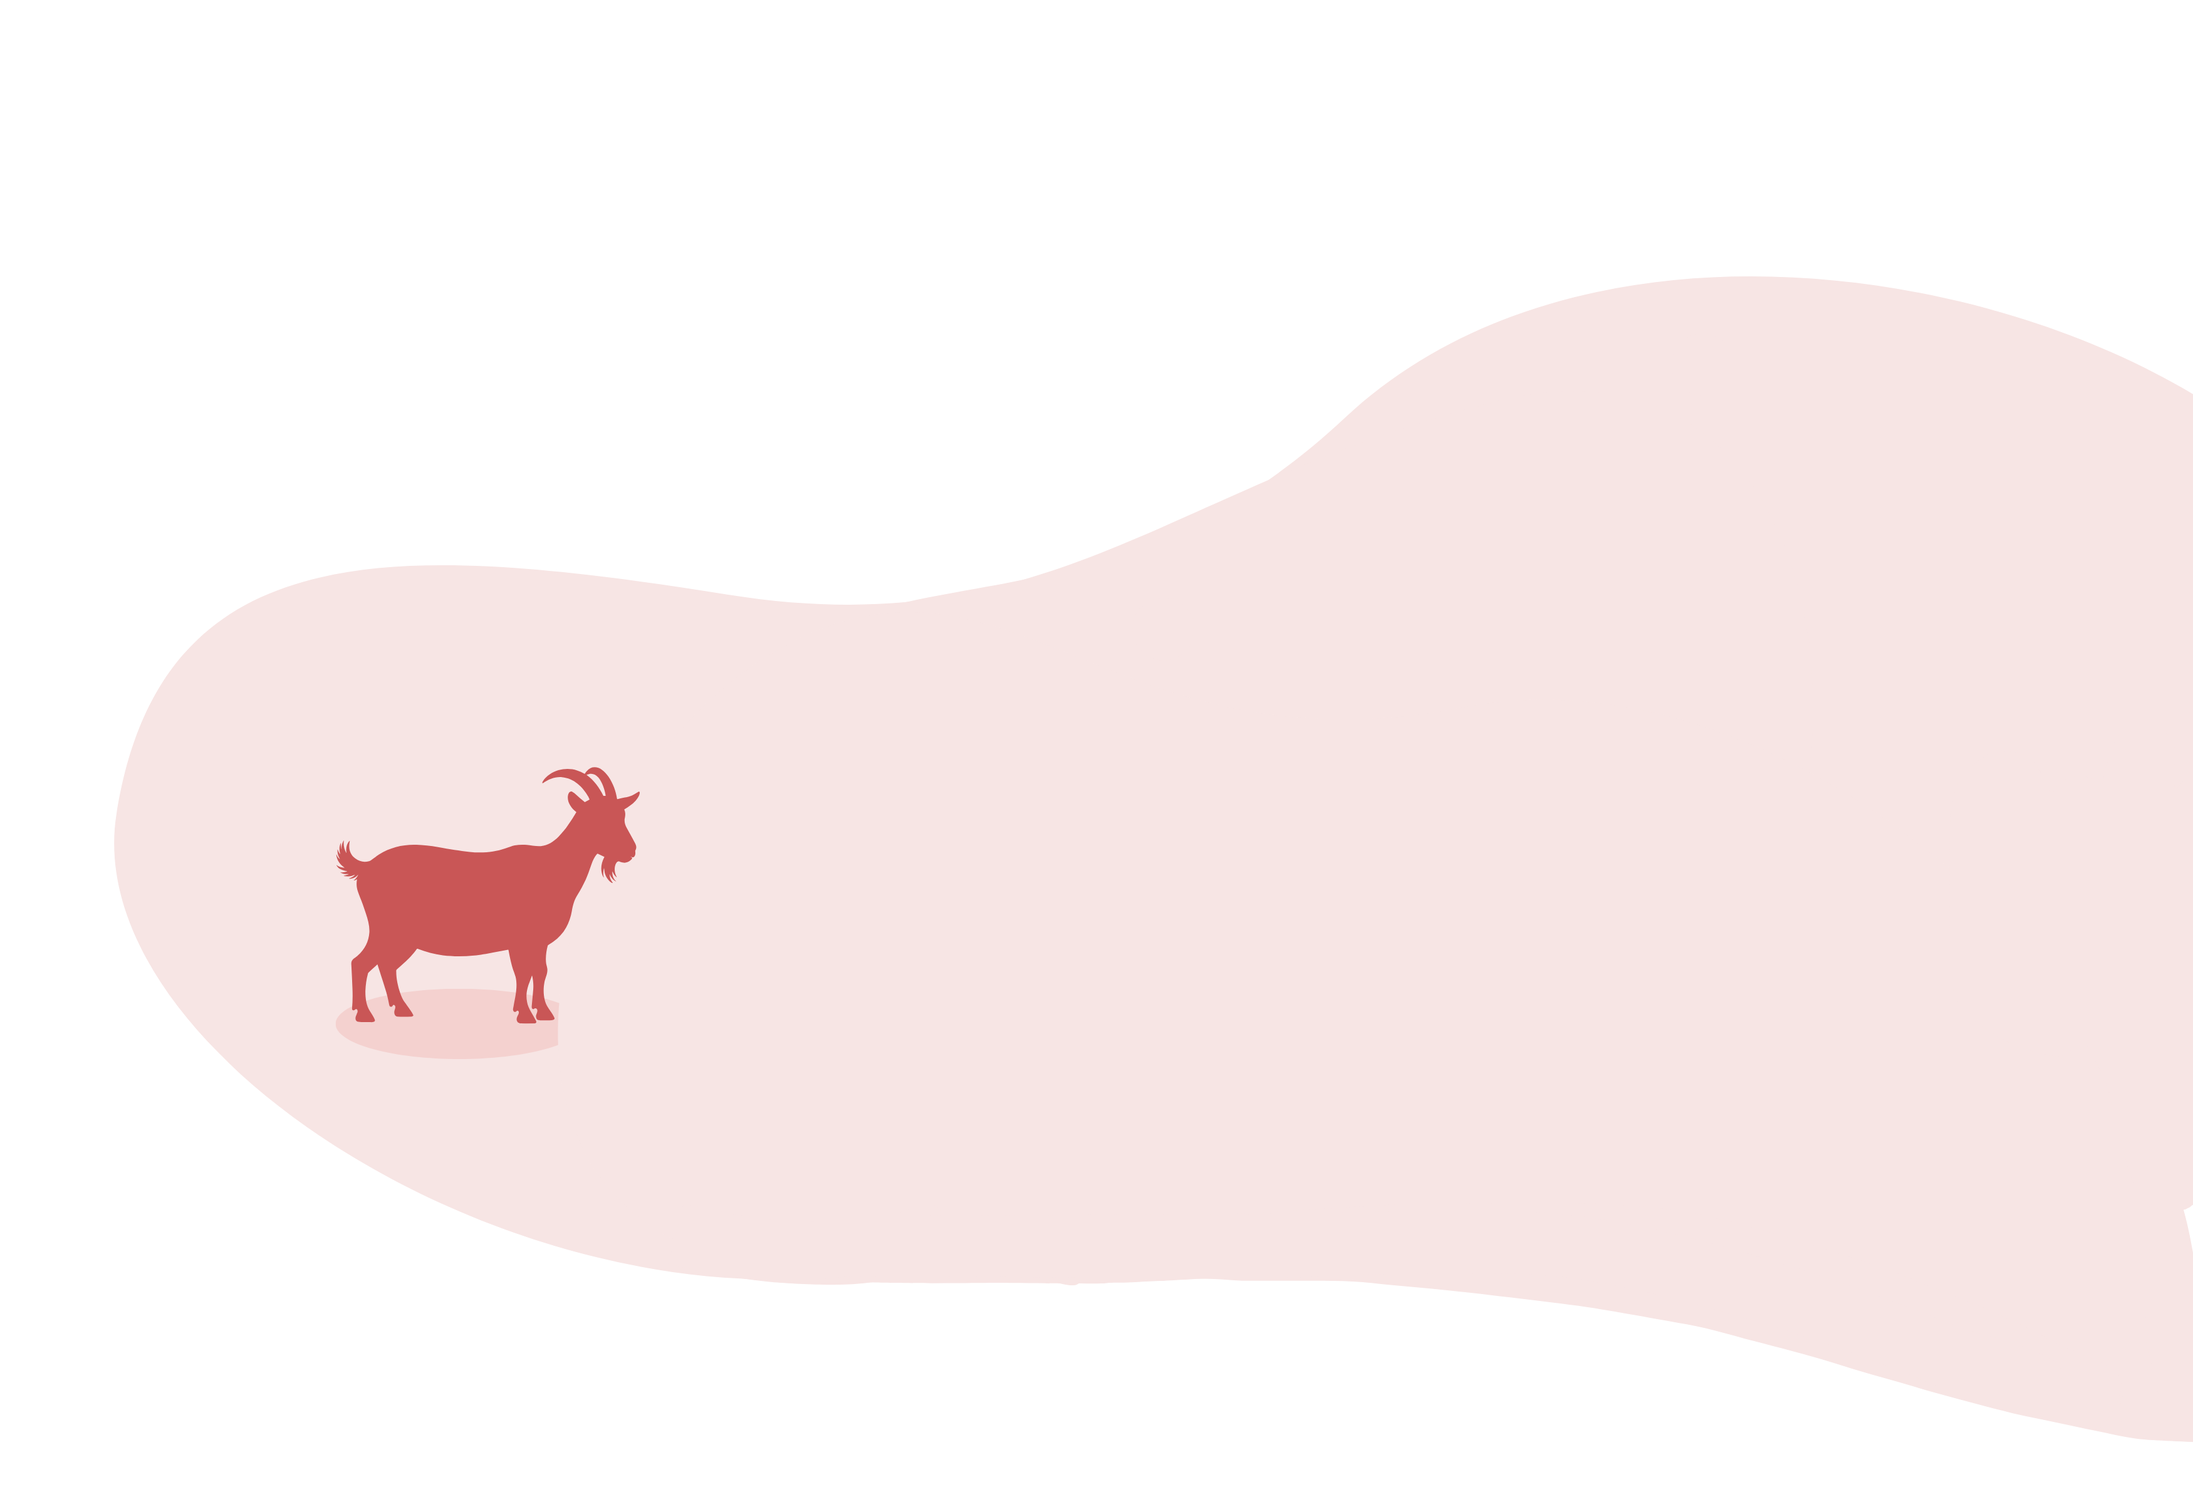
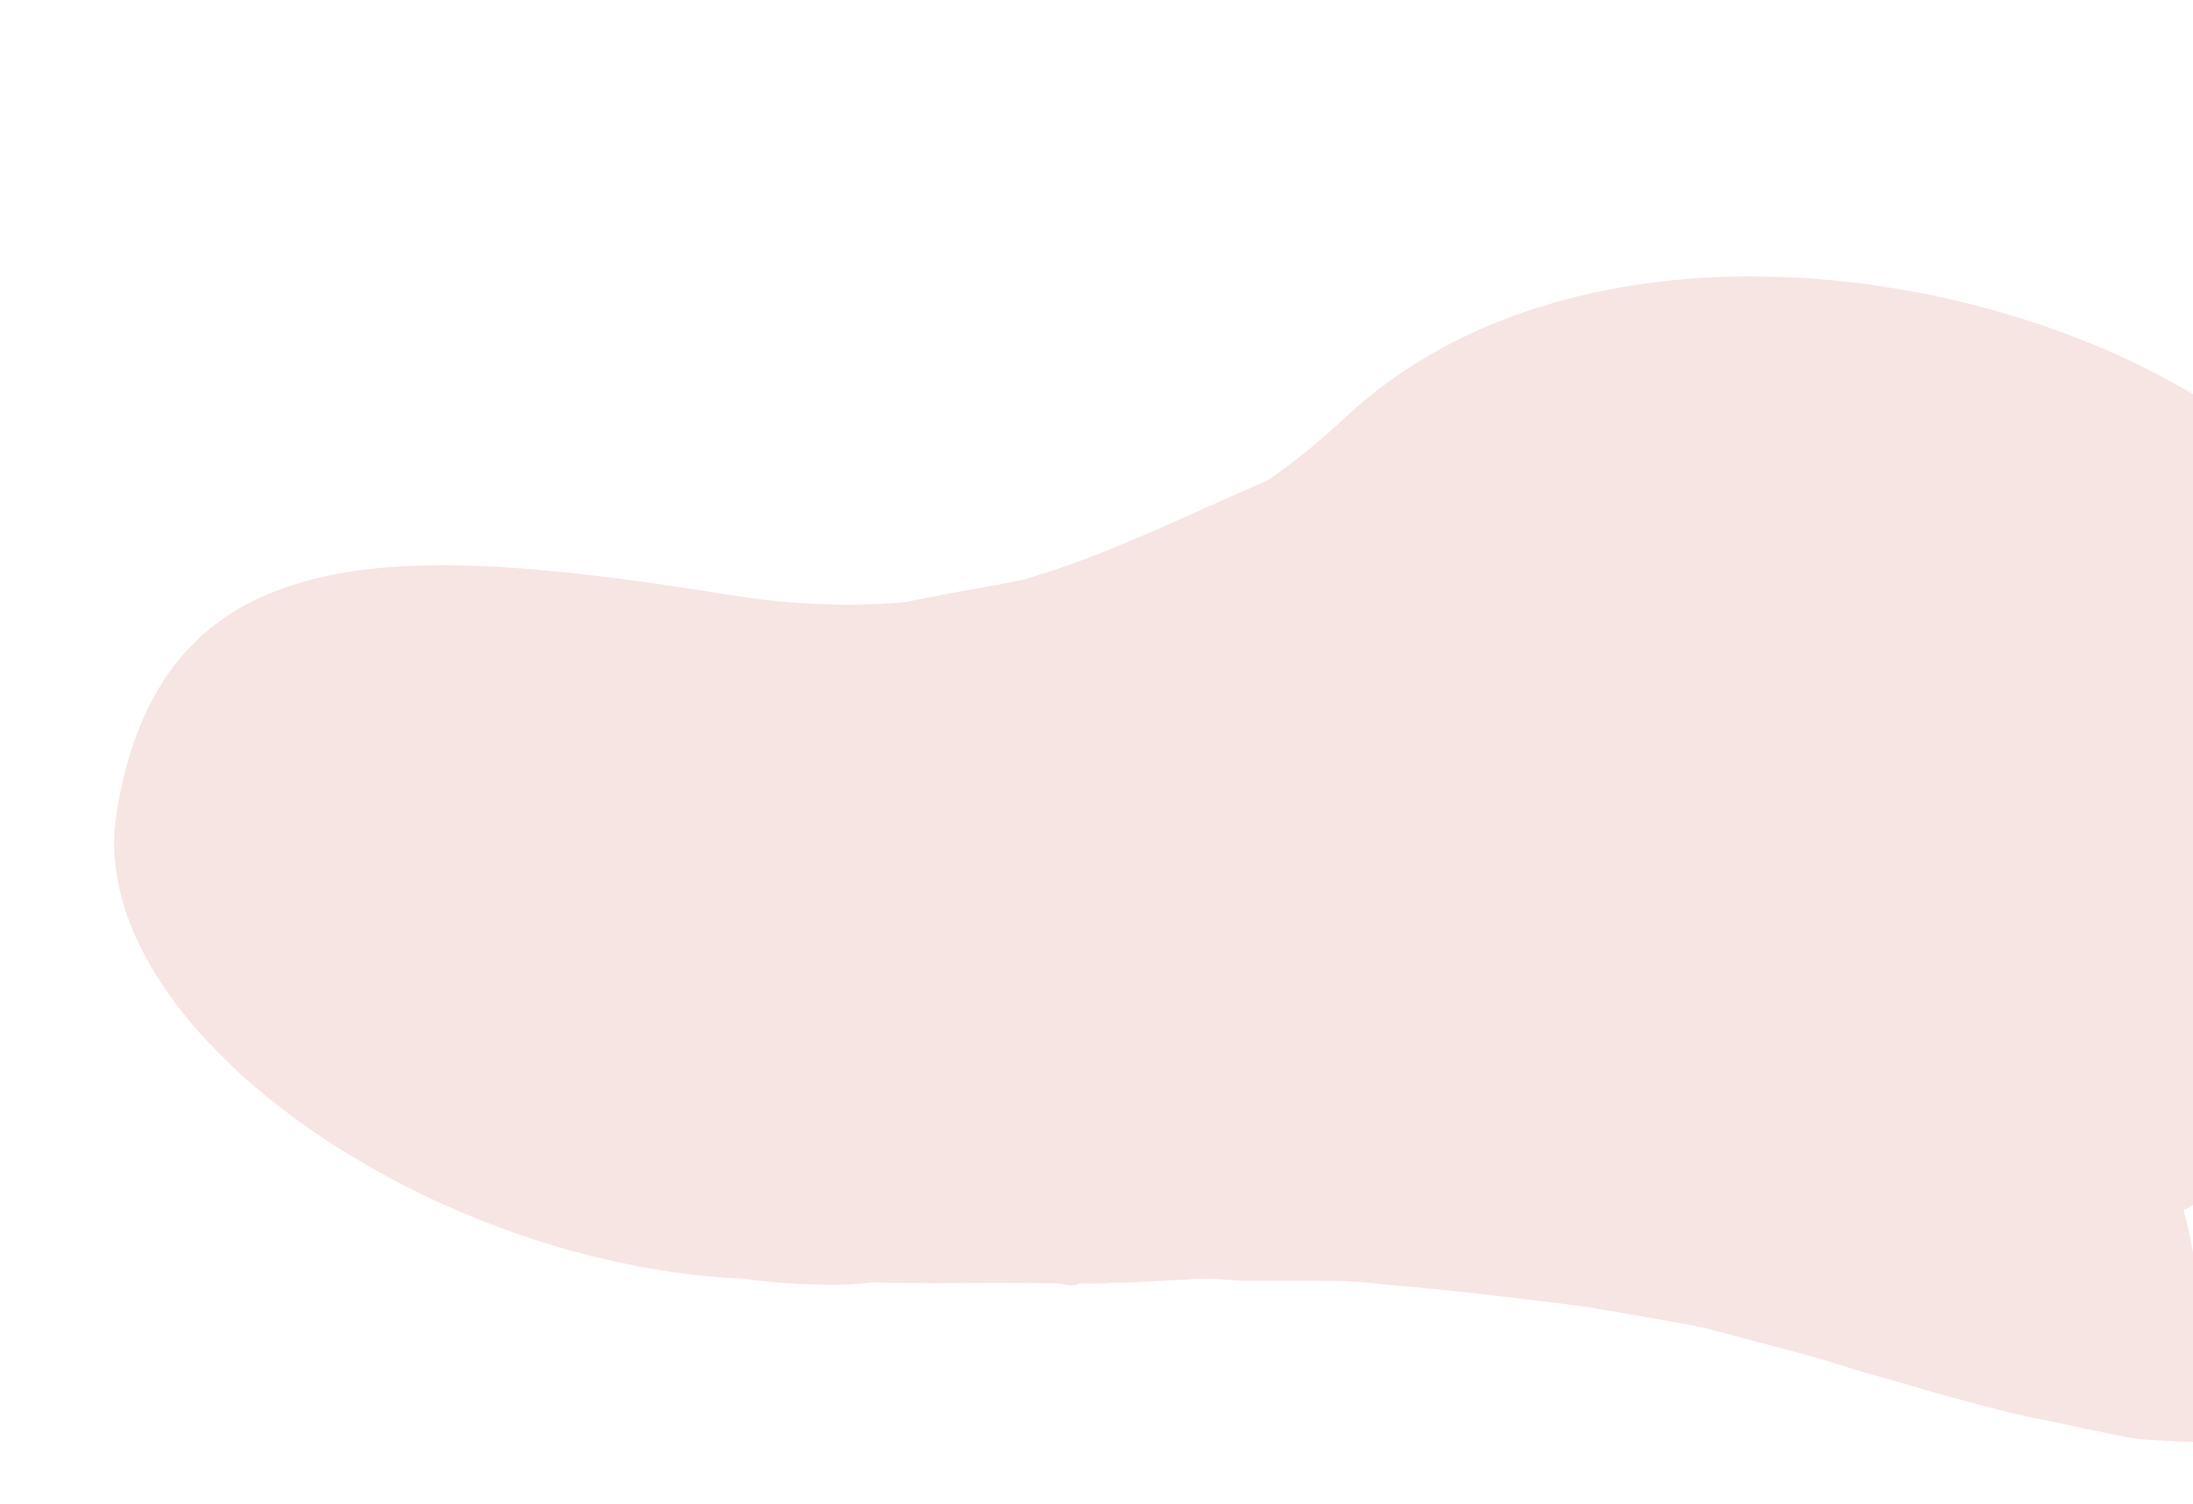
Left-justify both intros to the nav, mirror the goat, redraw the arrows
The goat was painted into landing-page.png, so it could not be moved or
mirrored. Erased it from the blob (the area it sat on is one flat colour,
so a fill is seamless) and re-added it as .hero-animal-goat, flipped with
scaleX(-1) and shifted left - it can now be repositioned freely like the
rabbit. Hero phones rise from 12% to 4%.

Both intro sections flip from right- to left-justified and now run full
width with a padding-left of the new --nav-inset, so the headings, the
flow and the benefit tiles all start on the nav bar's left edge (224px at
1440). The horse moves to the right of the "Why LivestockBook?" text.

The two icon families share a --tile-size of 250px: the flow icons grow
into it, and the benefit tiles get it via columns narrower than the
artwork, so the tiles overlap their transparent margins instead of
shrinking.

All four yellow arrows are redrawn as curved shafts with angled heads
computed off each curve's end tangent; arrow 2 gets its own dipping curve
rather than being arrow 1 mirrored.

The side graphic was not cropped but painted over: at z-index -1 it fell
behind .hero-band, whose white background covered its top. .how-why-wrap
now makes a stacking context to contain it, and it moves down/smaller to
clear the newly left-aligned icons.

Llama 350 -> 400px; reports mockups scaled 1.1 via a wider left bleed.

The App Store link asked for is already on both store badges (hero and
footer) and unchanged.

Changed region(s): [[0.1557, 0.5, 0.3114, 0.6875]]

diff --git a/docs/index.html b/docs/index.html
@@ -13,7 +13,7 @@
   <link rel="icon" type="image/png" sizes="96x96" href="./favicon-96x96.png?v=20260724" />
   <link rel="icon" type="image/png" sizes="192x192" href="./favicon-192x192.png?v=20260724" />
   <link rel="apple-touch-icon" sizes="180x180" href="./apple-touch-icon.png?v=20260724" />
-  <link rel="stylesheet" href="./styles.css?v=20260820d" />
+  <link rel="stylesheet" href="./styles.css?v=20260821a" />
 </head>
 <body>
   <header class="site-header">
@@ -47,8 +47,9 @@
       </div>
 
       <figure class="hero-usp">
-        <img src="./images/landing-page.png?v=4" alt="" aria-hidden="true" loading="eager" />
+        <img src="./images/landing-page.png?v=5" alt="" aria-hidden="true" loading="eager" />
         <img class="hero-phone" src="./images/landing-phone.png?v=4" alt="Animals screen in LivestockBook" loading="eager" />
+        <img class="hero-animal hero-animal-goat" src="./images/goat.png" alt="" aria-hidden="true" loading="lazy" />
         <img class="hero-animal hero-animal-rabbit" src="./images/rabbit.png" alt="" aria-hidden="true" loading="lazy" />
       </figure>
     </section>
@@ -67,17 +68,17 @@
           <img src="./images/how-add-animals.png?v=3" alt="" aria-hidden="true" />
           <span class="flow-label"><span class="flow-num">1.</span>Add animals</span>
         </div>
-        <span class="flow-arrow" aria-hidden="true"><svg viewBox="0 0 48 24"><path d="M3 12h38m0 0l-9-8m9 8l-9 8" fill="none" stroke="#f3a90a" stroke-width="4.5" stroke-linecap="round" stroke-linejoin="round"/></svg></span>
+        <span class="flow-arrow" aria-hidden="true"><svg viewBox="0 0 48 24"><path d="M4 15C16 6 30 5 42 12" fill="none" stroke="#f3a90a" stroke-width="4.5" stroke-linecap="round"/><path d="M42 12l-6-9m6 9l-11 1" fill="none" stroke="#f3a90a" stroke-width="4.5" stroke-linecap="round" stroke-linejoin="round"/></svg></span>
         <div class="flow-step">
           <img src="./images/how-add-records.png?v=3" alt="" aria-hidden="true" />
           <span class="flow-label"><span class="flow-num">2.</span>Log records</span>
         </div>
-        <span class="flow-arrow" aria-hidden="true"><svg viewBox="0 0 48 24"><path d="M3 12h38m0 0l-9-8m9 8l-9 8" fill="none" stroke="#f3a90a" stroke-width="4.5" stroke-linecap="round" stroke-linejoin="round"/></svg></span>
+        <span class="flow-arrow" aria-hidden="true"><svg viewBox="0 0 48 24"><path d="M4 15C16 6 30 5 42 12" fill="none" stroke="#f3a90a" stroke-width="4.5" stroke-linecap="round"/><path d="M42 12l-6-9m6 9l-11 1" fill="none" stroke="#f3a90a" stroke-width="4.5" stroke-linecap="round" stroke-linejoin="round"/></svg></span>
         <div class="flow-step">
           <img src="./images/how-filter-records.png?v=3" alt="" aria-hidden="true" />
           <span class="flow-label"><span class="flow-num">3.</span>Filter records</span>
         </div>
-        <span class="flow-arrow" aria-hidden="true"><svg viewBox="0 0 48 24"><path d="M3 12h38m0 0l-9-8m9 8l-9 8" fill="none" stroke="#f3a90a" stroke-width="4.5" stroke-linecap="round" stroke-linejoin="round"/></svg></span>
+        <span class="flow-arrow" aria-hidden="true"><svg viewBox="0 0 48 24"><path d="M4 15C16 6 30 5 42 12" fill="none" stroke="#f3a90a" stroke-width="4.5" stroke-linecap="round"/><path d="M42 12l-6-9m6 9l-11 1" fill="none" stroke="#f3a90a" stroke-width="4.5" stroke-linecap="round" stroke-linejoin="round"/></svg></span>
         <div class="flow-step">
           <img src="./images/how-export-records.png?v=3" alt="" aria-hidden="true" />
           <span class="flow-label"><span class="flow-num">4.</span>Export files</span>
@@ -126,7 +127,7 @@
         </article>
 
         <article class="feature-story reverse feature-story-graphic">
-          <span class="story-arrow story-arrow-1" aria-hidden="true"><svg viewBox="0 0 200 120"><path d="M14 84 L176 22" fill="none" stroke="#f3a90a" stroke-width="9" stroke-linecap="round"/><path d="M176 22l-28 5m28-5l-13 25" fill="none" stroke="#f3a90a" stroke-width="9" stroke-linecap="round" stroke-linejoin="round"/></svg></span>
+          <span class="story-arrow story-arrow-1" aria-hidden="true"><svg viewBox="0 0 200 120"><path d="M12 22C58 10 112 26 152 62" fill="none" stroke="#f3a90a" stroke-width="9" stroke-linecap="round"/><path d="M152 62l-10-30m10 30l-31-7" fill="none" stroke="#f3a90a" stroke-width="9" stroke-linecap="round" stroke-linejoin="round"/></svg></span>
           <div class="feature-story-copy">
             <p class="eyebrow">Records</p>
             <h2>Keep track of<br />livestock activity.</h2>
@@ -139,7 +140,7 @@
         </article>
 
         <article class="feature-story feature-story-graphic">
-          <span class="story-arrow story-arrow-2" aria-hidden="true"><svg viewBox="0 0 200 120"><path d="M14 24 Q100 92 186 46" fill="none" stroke="#f3a90a" stroke-width="9" stroke-linecap="round"/><path d="M186 46l-28-4m28 4l-9-26" fill="none" stroke="#f3a90a" stroke-width="9" stroke-linecap="round" stroke-linejoin="round"/></svg></span>
+          <span class="story-arrow story-arrow-2" aria-hidden="true"><svg viewBox="0 0 200 120"><path d="M14 30C70 96 130 96 184 44" fill="none" stroke="#f3a90a" stroke-width="9" stroke-linecap="round"/><path d="M184 44l-31 8m31-8l-9 31" fill="none" stroke="#f3a90a" stroke-width="9" stroke-linecap="round" stroke-linejoin="round"/></svg></span>
           <figure class="feature-shot feature-story-screen">
             <img class="feature-screen-image" src="./images/graphic-export.png?v=2" alt="Export screens in LivestockBook" loading="lazy" />
             <img class="story-accent" src="./images/duck.png" alt="" aria-hidden="true" loading="lazy" />
@@ -152,7 +153,7 @@
         </article>
 
         <article class="feature-story reverse feature-story-graphic">
-          <span class="story-arrow story-arrow-3" aria-hidden="true"><svg viewBox="0 0 200 120"><path d="M14 84 L176 22" fill="none" stroke="#f3a90a" stroke-width="9" stroke-linecap="round"/><path d="M176 22l-28 5m28-5l-13 25" fill="none" stroke="#f3a90a" stroke-width="9" stroke-linecap="round" stroke-linejoin="round"/></svg></span>
+          <span class="story-arrow story-arrow-3" aria-hidden="true"><svg viewBox="0 0 200 120"><path d="M12 84C62 92 118 70 176 26" fill="none" stroke="#f3a90a" stroke-width="9" stroke-linecap="round"/><path d="M176 26l-32 4m32-4l-13 29" fill="none" stroke="#f3a90a" stroke-width="9" stroke-linecap="round" stroke-linejoin="round"/></svg></span>
           <div class="feature-story-copy">
             <p class="eyebrow">Ready to Share</p>
             <h2>Clean, branded<br />and audit-ready.</h2>

diff --git a/docs/styles.css b/docs/styles.css
@@ -15,6 +15,12 @@
   --shadow: 0 20px 50px rgba(31, 27, 23, 0.08);
   --hero-frame-width: 1040px;
   --content-frame-width: 992px;
+  /* Left edge of the nav bar's content, for sections that need to line up
+     with it. Resolves against the using element's containing block, so only
+     use it on full-width sections. */
+  --nav-inset: calc((100% - min(var(--hero-frame-width), 100% - 32px)) / 2 + 24px);
+  /* Shared by the how-it-works flow icons and the benefit tiles. */
+  --tile-size: 250px;
 }
 
 * {
@@ -263,28 +269,21 @@ h2,
   width: min(1264px, calc(100% - 32px));
 }
 
-/* The benefit tiles sit tighter and hug the left edge, mirroring the
-   right-hugging "How it works" flow above them. */
+/* The tiles start on the nav bar's left edge and run in columns narrower
+   than the artwork, so the tiles overlap their neighbours' transparent
+   canvas margins and sit tight at full size. */
 @media (min-width: 901px) {
   .benefits-row {
-    margin-left: 24px;
+    width: fit-content;
+    margin-left: var(--nav-inset);
     margin-right: auto;
-    width: min(900px, calc(100% - 48px));
+    grid-template-columns: repeat(4, 214px);
     gap: 0;
   }
 
-  /* Same trick as the flow steps: overlap the tiles' transparent canvas
-     margins so the artwork sits tight without shrinking. */
-  .benefits-row li {
-    margin-inline: -16px;
-  }
-
-  .benefits-row li:first-child {
-    margin-left: 0;
-  }
-
-  .benefits-row li:last-child {
-    margin-right: 0;
+  .benefits-row .benefit-tile {
+    width: var(--tile-size);
+    max-width: none;
   }
 }
 
@@ -374,7 +373,7 @@ h2,
    margins, hence the generous widths. */
 .hero-phone {
   position: absolute;
-  top: 12%;
+  top: 4%;
   right: 8%;
   width: 44%;
   height: auto;
@@ -386,6 +385,15 @@ h2,
   pointer-events: none;
 }
 
+/* Was baked into landing-page.png facing right; lifted out so it can be
+   mirrored and moved independently of the blob. */
+.hero-animal-goat {
+  left: 17%;
+  top: 38%;
+  width: 27.4%;
+  transform: scaleX(-1);
+}
+
 .hero-animal-rabbit {
   /* The canvas carries wide transparent margins, so the box overhangs the
      left edge to seat the rabbit itself near it. */
@@ -394,8 +402,12 @@ h2,
   width: 42%;
 }
 
+/* z-index 0 makes this a stacking context so the side graphic's z-index: -1
+   stays inside it. Without it the graphic drops behind .hero-band, whose
+   white background then paints over its top. */
 .how-why-wrap {
   position: relative;
+  z-index: 0;
 }
 
 .side-graphic-bg {
@@ -407,9 +419,9 @@ h2,
     display: block;
     position: absolute;
     left: 0;
-    top: -80px;
-    width: 46vw;
-    max-width: 900px;
+    top: 300px;
+    width: 38vw;
+    max-width: 760px;
     height: auto;
     z-index: -1;
     pointer-events: none;
@@ -422,28 +434,28 @@ h2,
   text-align: center;
 }
 
-/* Both intro sections are wider than .site-header-inner, so this pad brings
-   their right edge back in line with the nav bar's last link. The percentages
-   resolve against .how-why-wrap, the full-width parent both sections share. */
+/* Both intros run full width and start on the nav bar's left edge, so their
+   headings, flow and tiles all share one left margin with the header. */
 @media (min-width: 901px) {
   .section-intro.how-it-works,
   .section-intro.why-intro {
-    padding-right: calc(
-      (min(1264px, 100% - 32px) - min(var(--hero-frame-width), 100% - 32px)) / 2 + 24px
-    );
+    width: 100%;
+    max-width: none;
+    padding-left: var(--nav-inset);
+    padding-right: 16px;
+    text-align: left;
   }
 }
 
 .how-intro-text {
   width: fit-content;
-  margin: 0 0 0 auto;
-  text-align: right;
+  margin: 0 auto 0 0;
+  text-align: left;
 }
 
 .how-intro-text h2 {
   display: flex;
   align-items: center;
-  justify-content: flex-end;
   gap: 20px;
 }
 
@@ -457,7 +469,7 @@ h2,
 
 @media (min-width: 901px) {
   .how-flow {
-    justify-content: flex-end;
+    justify-content: flex-start;
   }
 }
 
@@ -467,8 +479,10 @@ h2,
   align-items: center;
 }
 
+/* One size for both icon rows: the how-it-works steps and the benefit tiles
+   below read as the same family, so they must match. */
 .how-flow img {
-  width: clamp(150px, 15vw, 210px);
+  width: clamp(150px, 20vw, var(--tile-size));
   height: auto;
   display: block;
   margin: 0;
@@ -533,25 +547,14 @@ h2,
 /* Mirrors the "How it works" intro: header block hugs the right edge with
    the horse riding its right side. */
 @media (min-width: 901px) {
-  /* Same frame as .how-it-works above, so both headers share a right edge. */
   .section-intro.why-intro {
-    width: min(1264px, calc(100% - 32px));
-    max-width: none;
-    margin: 56px auto 0;
-    text-align: right;
+    margin: 56px 0 0;
   }
 
   .why-intro h2 {
     display: flex;
     align-items: center;
-    justify-content: flex-end;
     gap: 20px;
-  }
-
-  /* The horse takes ~284px of the h2's own line; pad the strapline by the
-     same amount so both end on the heading text's right edge. */
-  .why-intro p {
-    padding-right: 284px;
   }
 }
 
@@ -566,7 +569,7 @@ h2,
     max-width: none;
     height: auto;
     /* The canvas carries transparent margin around the horse. */
-    margin: -100px -56px -85px 0;
+    margin: -100px 0 -85px -56px;
   }
 }
 
@@ -653,11 +656,11 @@ h2,
 
   .reports-accent {
     display: block;
-    width: 350px;
+    width: 400px;
     max-width: none;
     height: auto;
     /* The canvas is mostly transparent margin; pull the flow in around it. */
-    margin: -10px auto -55px;
+    margin: -10px auto -62px;
     pointer-events: none;
   }
 }
@@ -720,9 +723,10 @@ h2,
 
 @media (min-width: 901px) {
   .reports-graphic {
-    /* Bleed leftward like the story graphics; text-side edge stays put. */
-    width: calc(100% + 150px);
-    margin-left: -150px;
+    /* Bleed leftward like the story graphics; text-side edge stays put.
+       The extra 77px over the base bleed scales the mockups by 1.1. */
+    width: calc(100% + 227px);
+    margin-left: -227px;
   }
 }
 
@@ -980,11 +984,11 @@ h2,
     top: 40px;
   }
 
-  /* Records (right) down to export (left): mirrored. */
+  /* Records (right) down to export (left): its own dipping curve, so no
+     mirroring of arrow 1 is needed. */
   .story-arrow-2 {
     left: 38%;
     top: 150px;
-    transform: scaleX(-1);
   }
 
   /* Export (left) down to Ready to Share (right). */
